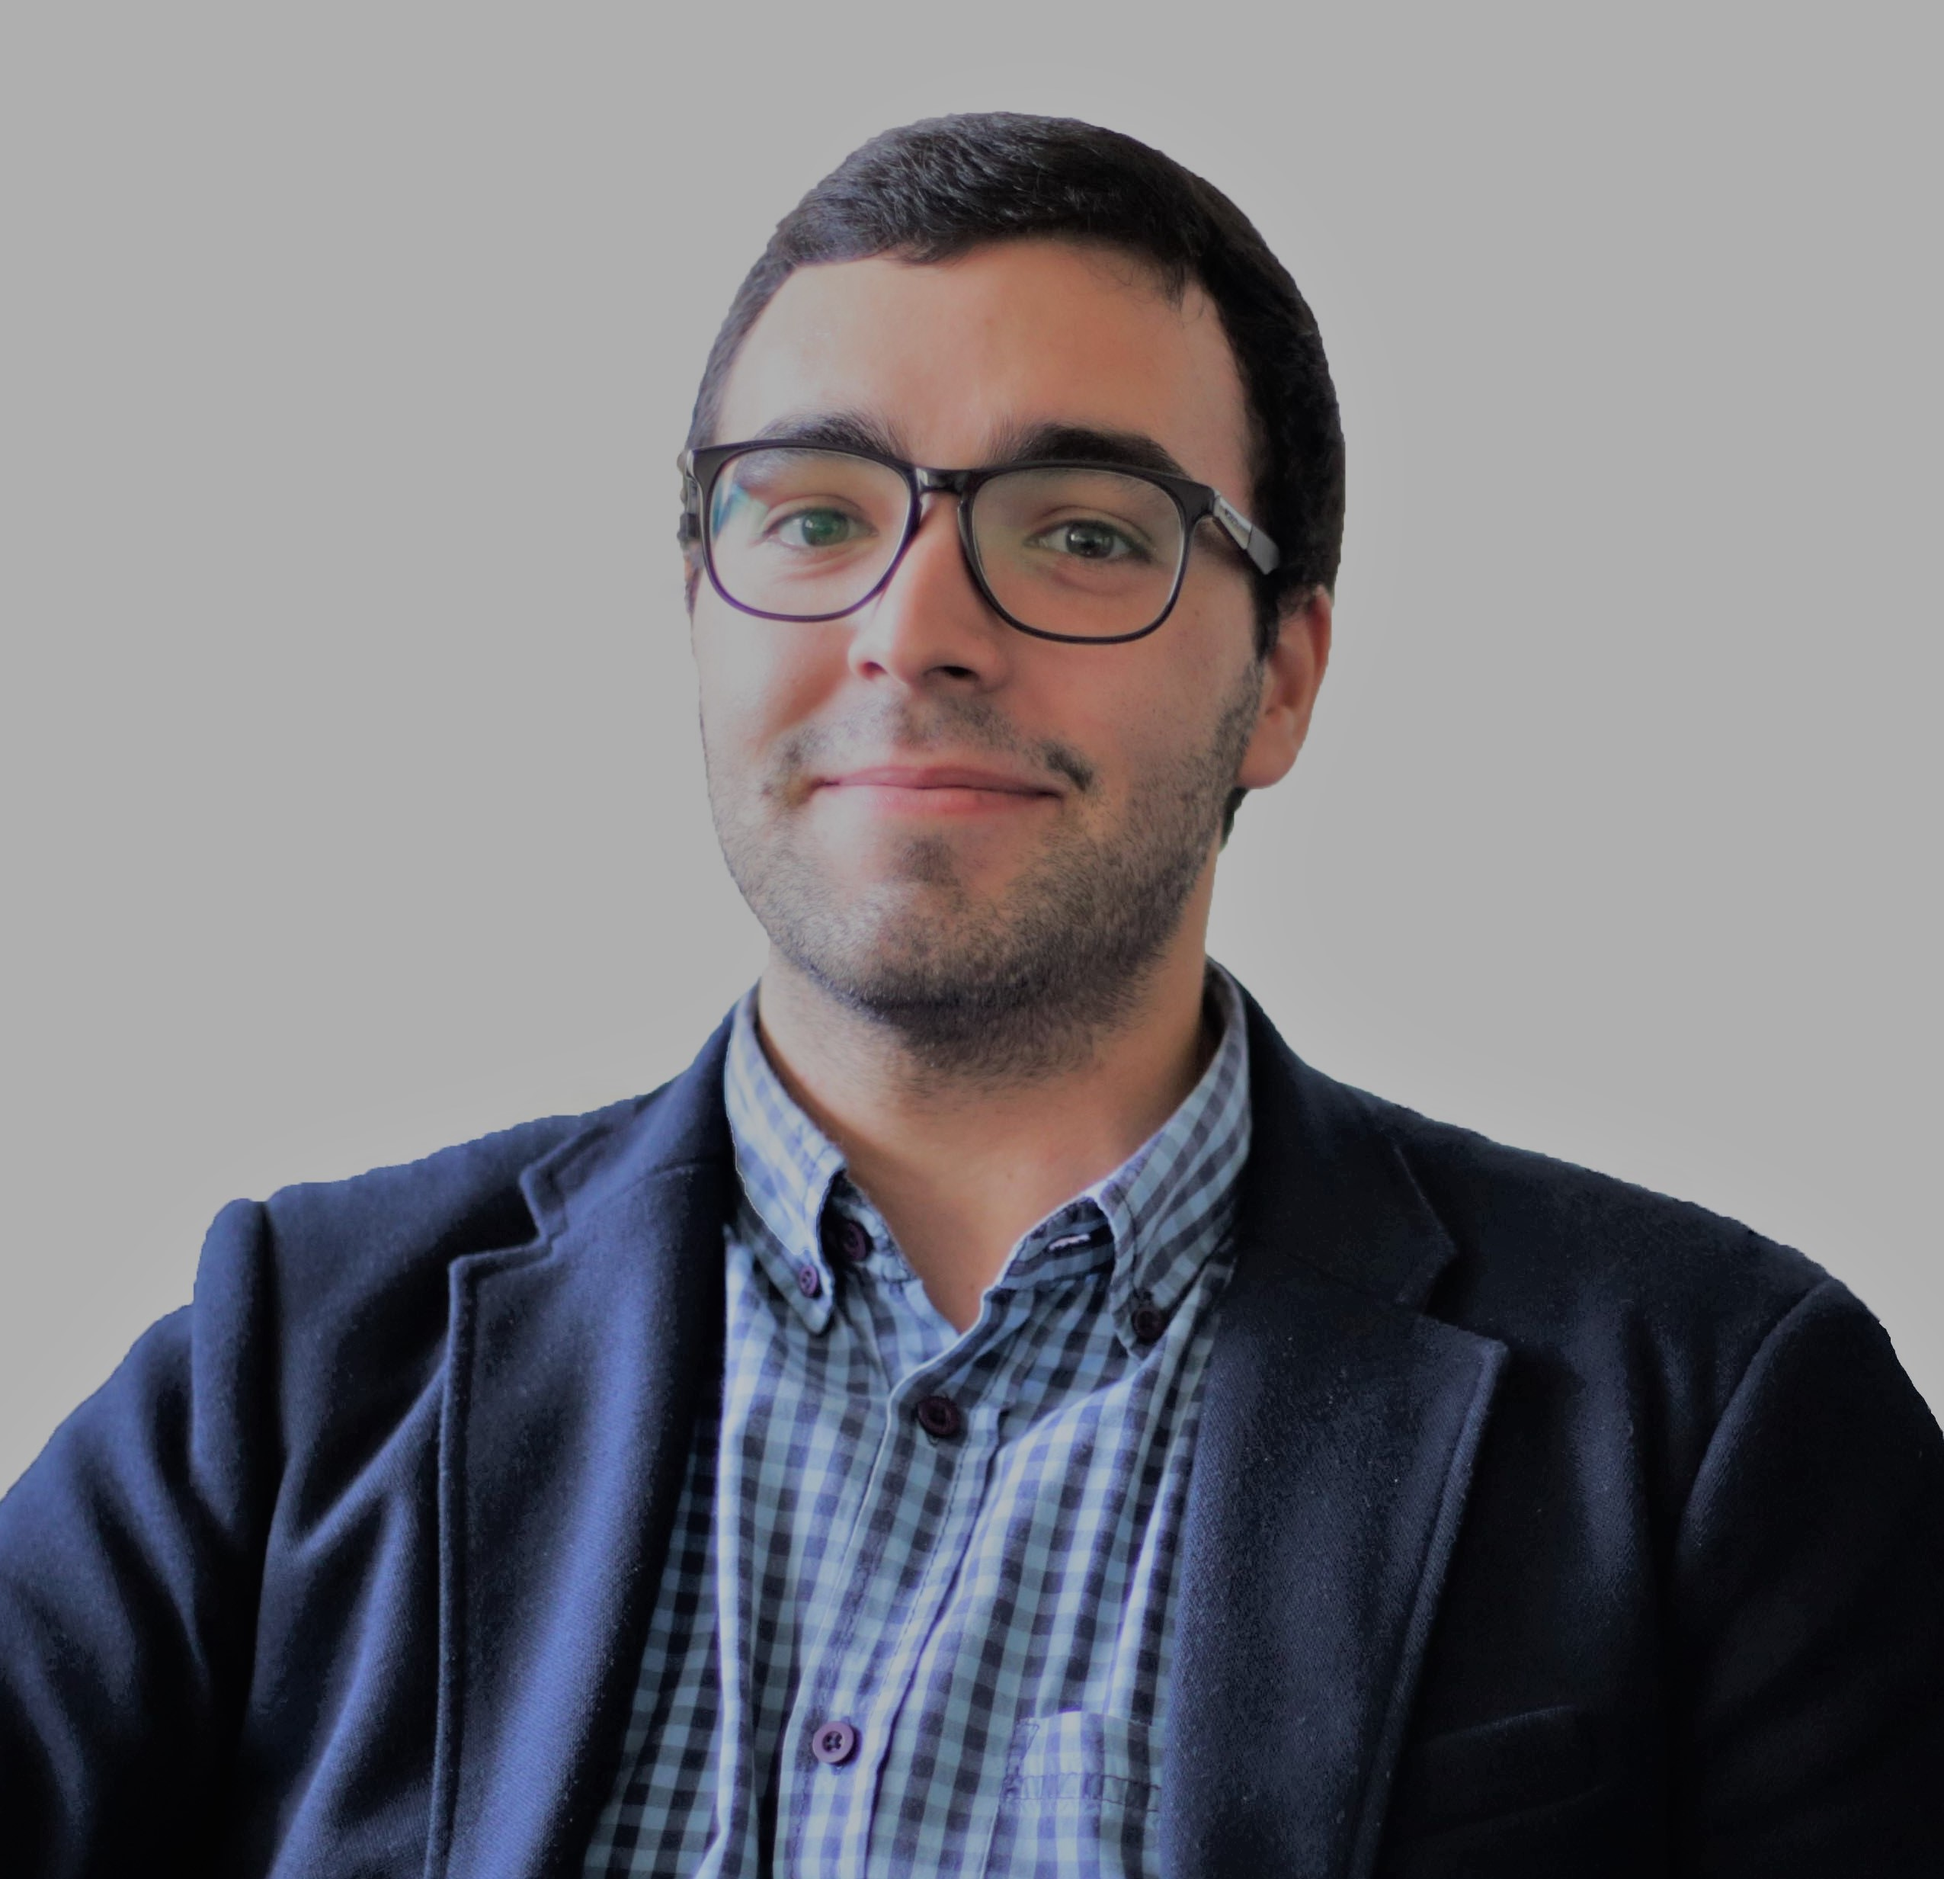
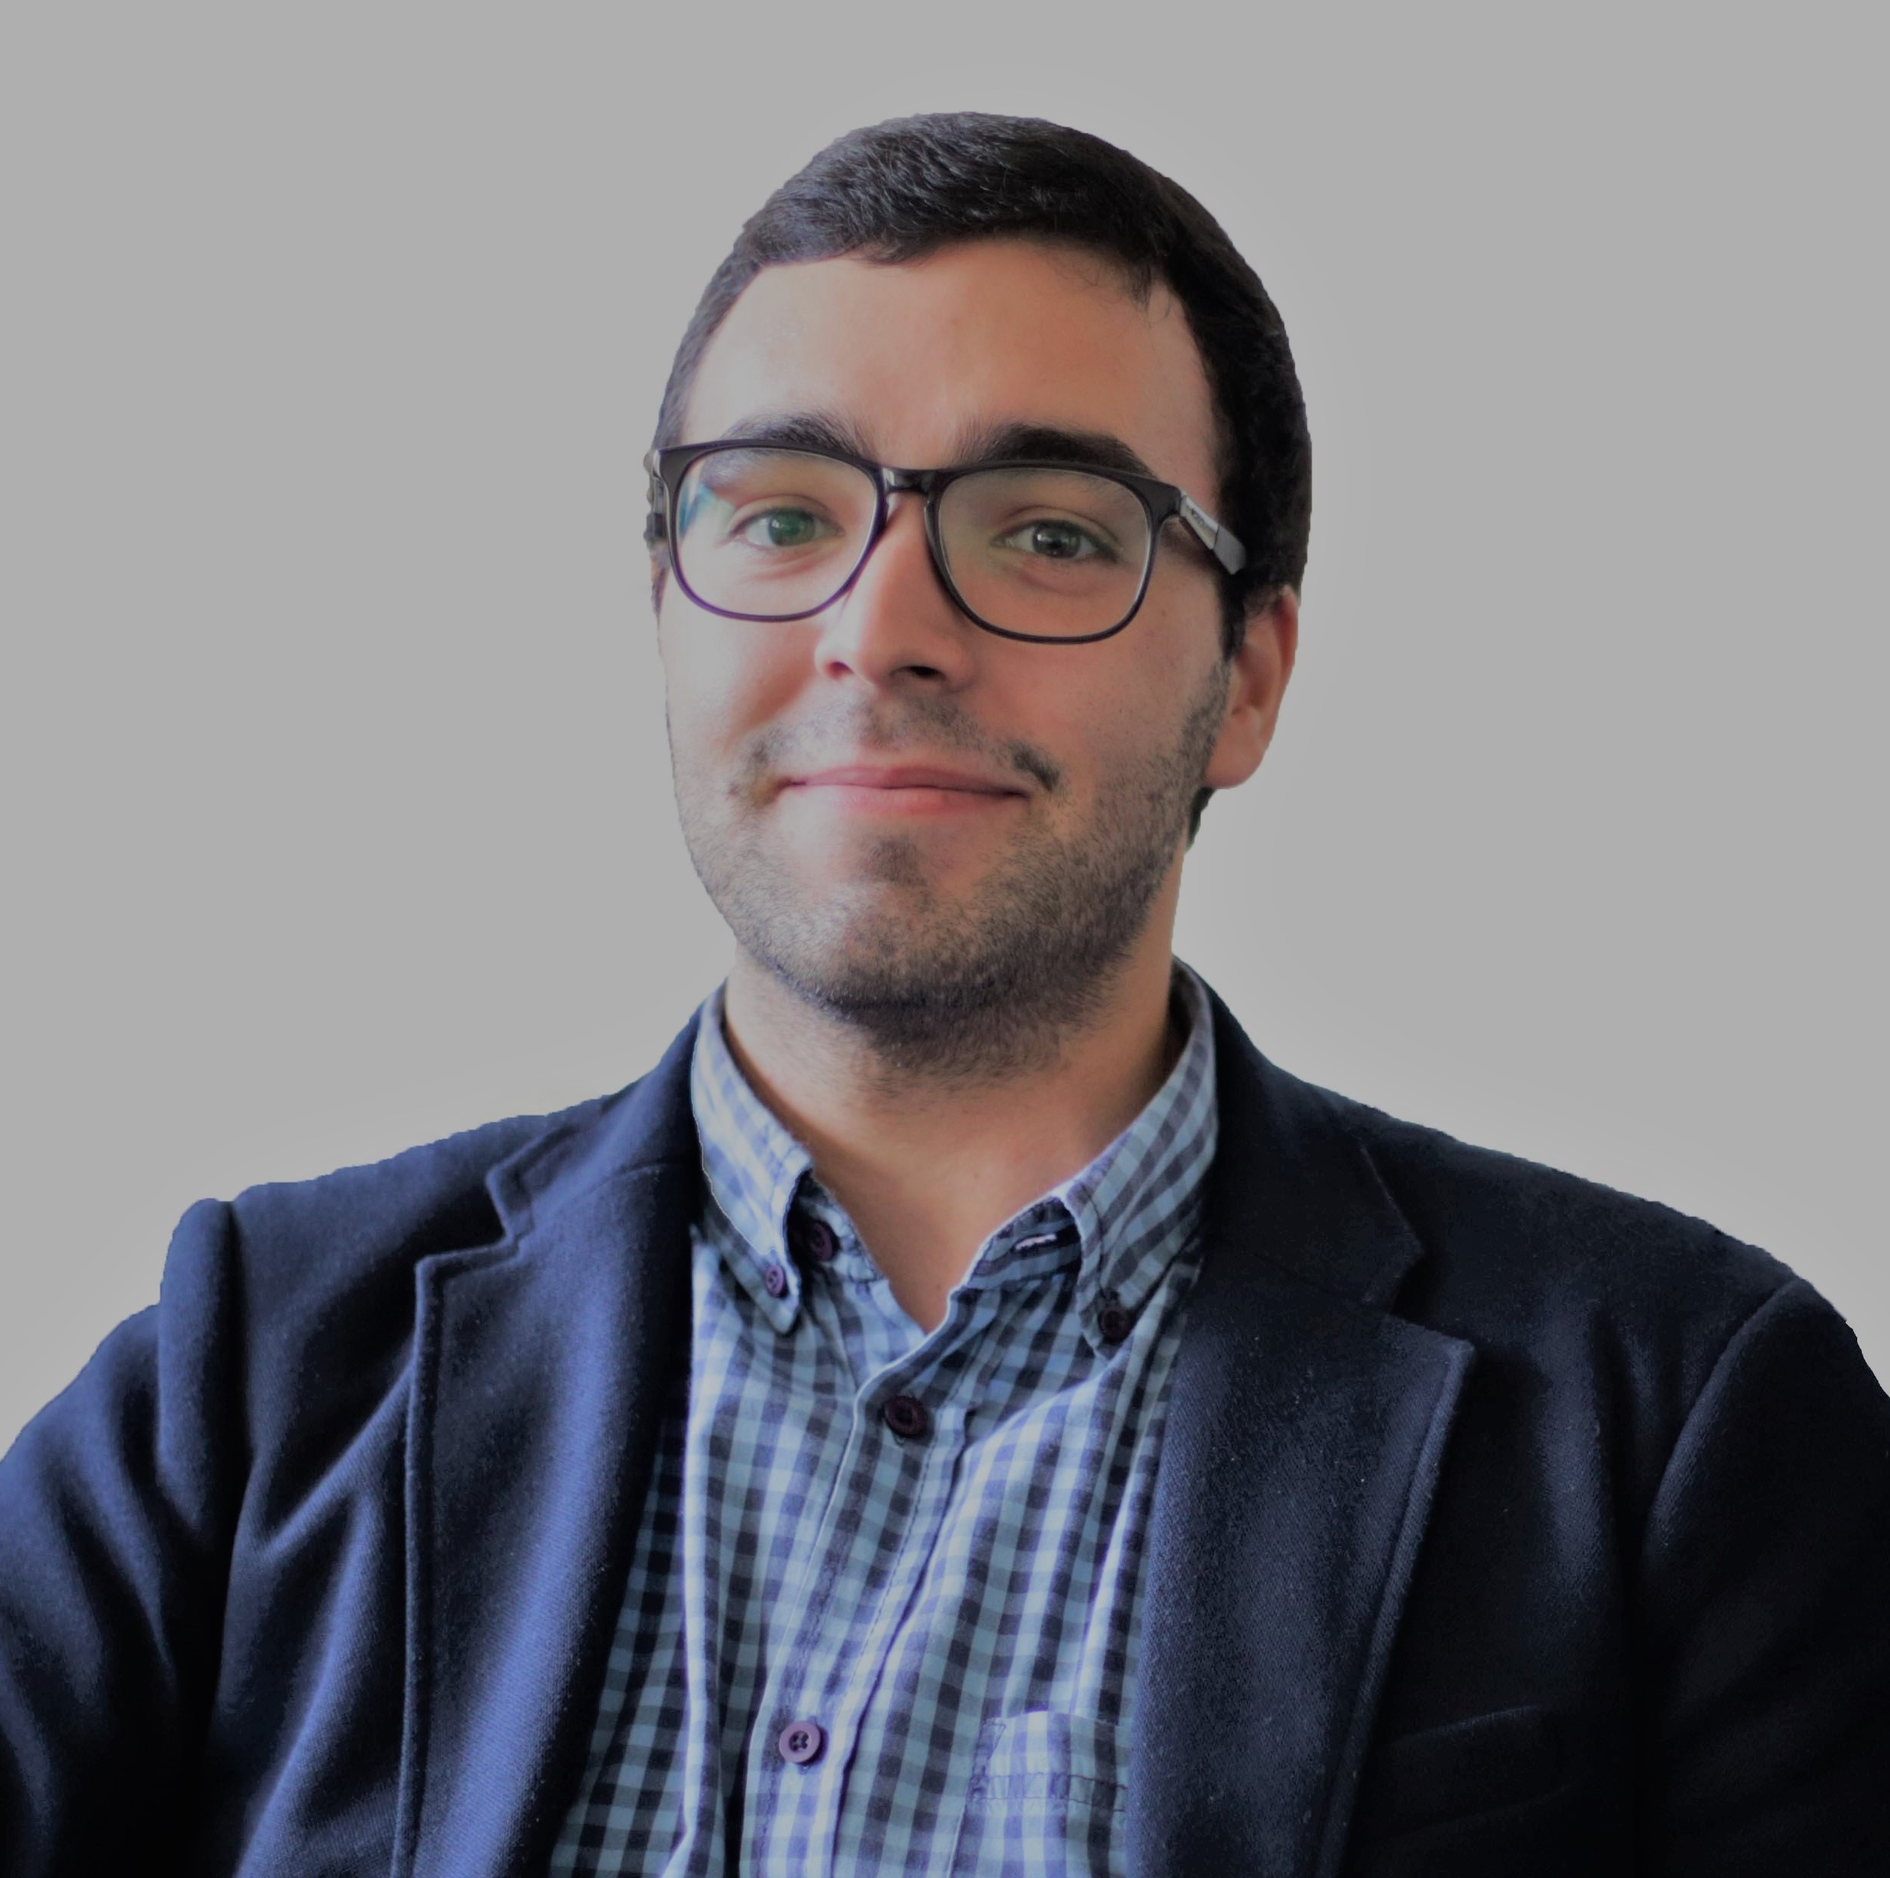
about page updated

diff --git a/src/js/components/static/AboutUs.js b/src/js/components/static/AboutUs.js
@@ -3,8 +3,9 @@ import Helmet from 'react-helmet';
 import PropTypes from 'prop-types';
 import RaisedButton from 'material-ui/RaisedButton';
 
-import teamImage from 'img/team/team.jpg';
 import logoImage from 'img/logo.png';
+import teamImage from 'img/team/team.jpg';
+import ackImage from 'img/team/ack.jpg';
 import casimiroImage from 'img/team/antonio-casimiro.jpg';
 import pontesImage from 'img/team/pedro-pontes.jpg';
 import azevedoImage from 'img/team/ana-azevedo.jpg';
@@ -116,13 +117,15 @@ export default class AboutUs extends Component {
 
     memberElement(memberInfo) {
         const linkedIn = memberInfo.linkedIn
-            ? <li className="background--linkedin">
+            ? <li className="contact">
                 <a href={memberInfo.linkedIn} target="_blank"><i className="fa fa-linkedin" /></a>
               </li>
             : null;
 
         return <li className="member vert-align" key={memberInfo.name}>
-                    <img src={memberInfo.img} alt={memberInfo.name} className="member-img"/>
+                    <div className="thumbnail">
+                        <img src={memberInfo.img} className="portrait" alt={memberInfo.name} />
+                    </div>
 
                     <div className="text-box">
                         <h1 className="member-name">
@@ -134,7 +137,7 @@ export default class AboutUs extends Component {
                             <div className="social-holder">
                                 <ul>
                                     {linkedIn}
-                                    <li className="background--email">
+                                    <li className="contact">
                                         <a href={`mailto:${memberInfo.email}`} target="_blank"><i className="fa fa-envelope" /></a>
                                     </li>
                                 </ul>
@@ -166,7 +169,7 @@ export default class AboutUs extends Component {
                             We left our mark. Leave yours.
                         </h2>
                         <span>
-                            <RaisedButton label="Start Route" backgroundColor="#012935" labelColor="#FFF" onTouchTap={ this.goToPage.bind(this, '/route/1') }/>
+                            <RaisedButton label="Start Now" backgroundColor="#012935" labelColor="#FFF" onTouchTap={ this.goToPage.bind(this, '/map') }/>
                         </span>
                     </div>
                 </div>
@@ -180,10 +183,27 @@ export default class AboutUs extends Component {
                     </article>
                 </section>
 
+                <hr/>
+
                 <section className="team-members hor-align">
                     <ul className="flex-box">
                         {teamMembers}
                     </ul>
+                </section>
+
+                <hr/>
+
+                <section className="ack">
+                    <article>
+                        <header>Acknowledgements</header>
+                        <div>
+                            As a content oriented project, #iwashere counted with the contribute of several people, responsible for collecting the contents now made available to you.
+                        </div>
+
+                        <div className="hor-align">
+                            <img src={ackImage} className="ack-img" alt="Acknowledgements" />
+                        </div>
+                    </article>
                 </section>
             </div>
         );

diff --git a/src/styles/about-page.scss b/src/styles/about-page.scss
@@ -70,6 +70,23 @@ section.team article {
     }
 }
 
+section.ack article {
+    header, div {
+        text-align: center;
+    }
+
+    header {
+        font-size: 3rem;
+        font-weight: bold;
+        text-transform: uppercase;
+    }
+
+    .ack-img {
+        width: 50%;
+        height: 50%;
+    }
+}
+
 .flex-box {
     padding: 0;
     margin: 0;
@@ -89,20 +106,37 @@ section.team-members {
 
     padding: 20px;
 
-    .section-header {
-        text-transform: uppercase;
-        font-weight: bold;
-    }
-
-    .member-img {
-        max-height: 150px;
-        max-width: 150px;
-        border-radius: 50%;
-    }
-
     li {
-        padding: 10px;
+        height: 200px;
+        width: 400px;
+        margin: 20px;
         text-align: center;
+
+        .section-header {
+            text-transform: uppercase;
+            font-weight: bold;
+        }
+
+        .thumbnail {
+            position: relative;
+            width: 200px;
+            height: 200px;
+            overflow: hidden;
+        }
+        .thumbnail img {
+            position: absolute;
+            left: 50%;
+            top: 50%;
+            height: 100%;
+            width: auto;
+            -webkit-transform: translate(-50%,-50%);
+            -ms-transform: translate(-50%,-50%);
+            transform: translate(-50%,-50%);
+        }
+        .thumbnail img.portrait {
+            width: 100%;
+            height: auto;
+        }
 
         header {
             font-size: 2rem;
@@ -118,8 +152,7 @@ section.team-members {
             font-size: 2rem;
         }
 
-        li {
-            padding: 10px;
+        ul li.contact {
             display: inline;
             list-style-type: none;
         }
